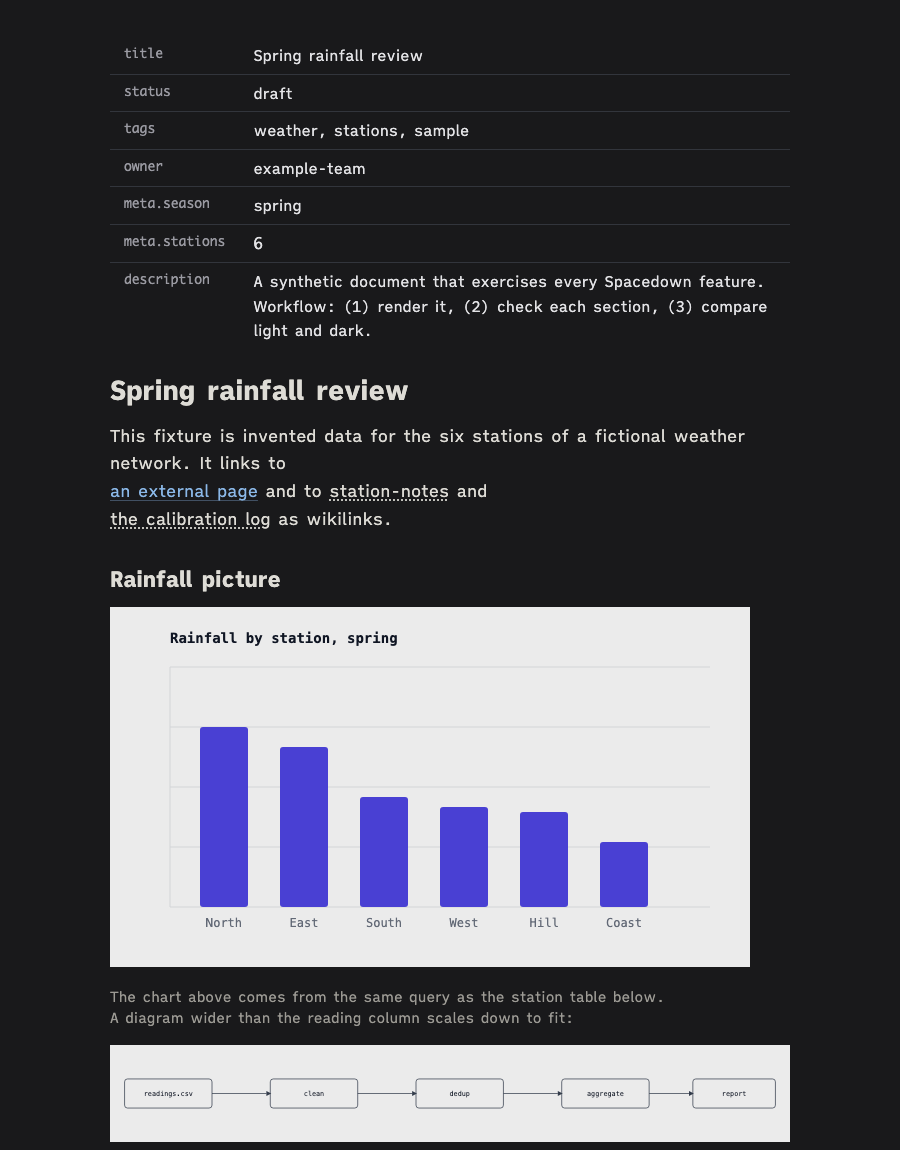
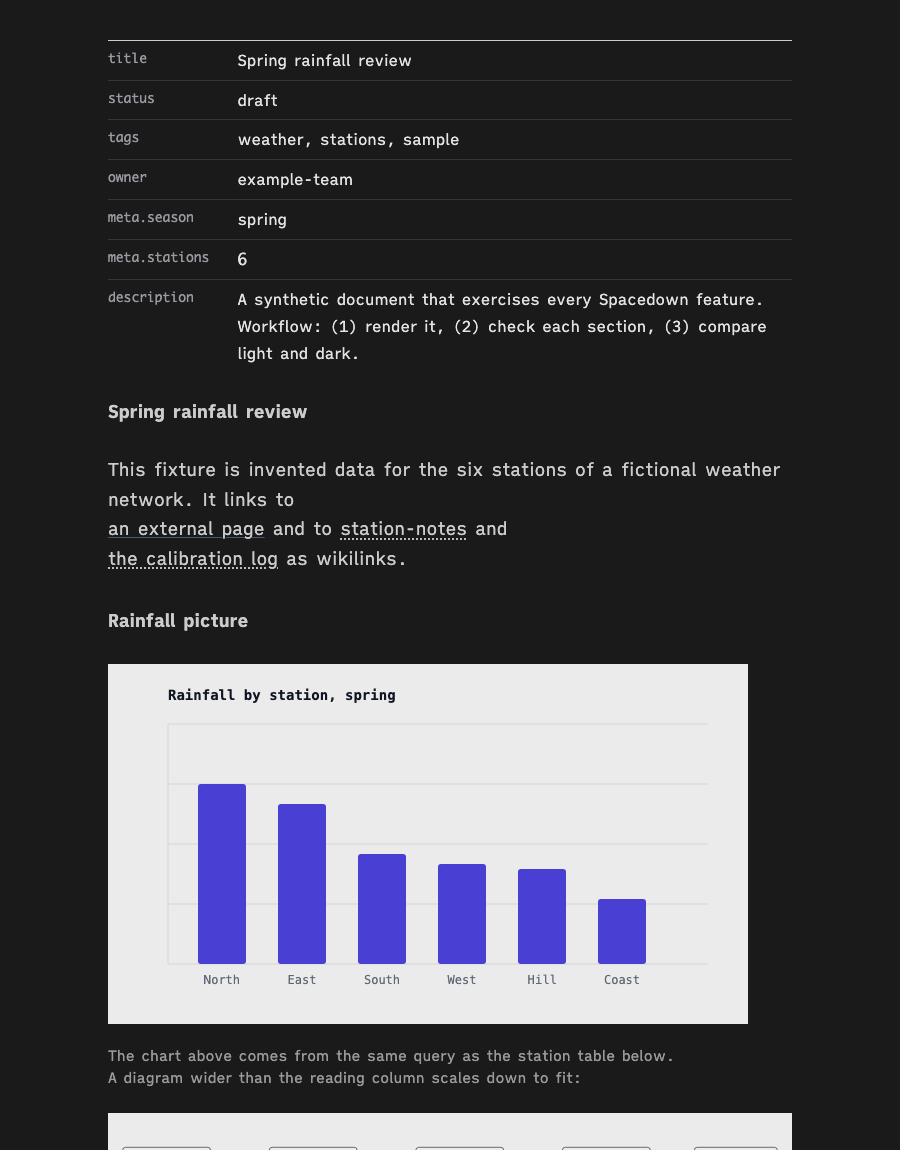
docs: regenerate App Store and README screenshots for release 1
Screenshot scripts take a BROWSER override so a headless run never touches a running browser. Proof: docs/verification/r1-screenshots.md

diff --git a/docs/verification/r1-screenshots.md b/docs/verification/r1-screenshots.md
@@ -1,0 +1,22 @@
+# Proof of Done, r1-screenshots
+
+The App Store screenshots 1 and 2 and the README light and dark previews are re-rendered from the release 1 Quick Look pipeline. The three screenshot scripts take a `BROWSER` override (default unchanged: Brave), so a run can use a throwaway headless profile and never reach a running browser.
+
+## Green run
+
+| Command | Exit | Verdict |
+|---|---|---|
+| `BROWSER=<headless wrapper> bash scripts/window-shots.sh` | 0 | PASS (ql-light, ql-dark, safari-light) |
+| `BROWSER=<headless wrapper> bash scripts/readme-shots.sh` | 0 | PASS (quicklook-light, quicklook-dark; app-window byte-identical, the app window page did not change) |
+| `OUT=scripts/out BROWSER=<headless wrapper> bash scripts/store-shots.sh` | 0 | `1-light.png: 2880 1800`, `2-dark.png: 2880 1800`, copied to `docs/app-store/screenshots/1-quicklook.png` and `2-dark.png` |
+| `bash -n scripts/{window,readme,store}-shots.sh` | 0 | PASS |
+
+Each PNG was opened and read: light and dark render in the iA Writer faces (README) or the system faces (store, by design), frontmatter table, callout, tasks, KaTeX and tables typeset. Screenshot 3 (app window) is unchanged on purpose: the script header keeps it as is.
+
+## Negative control
+
+With `BROWSER` unset the scripts fall back to the original Brave path, so the old behavior is the default; the override line is the only script change (`git diff scripts/`).
+
+## Limits
+
+The X-ray and Present toolbar is not in these renders: `render-file.js` plus `qlwrap.js` emit the body only. `docs/images/quicklook-panel.png` is a real panel capture and was not regenerated.
